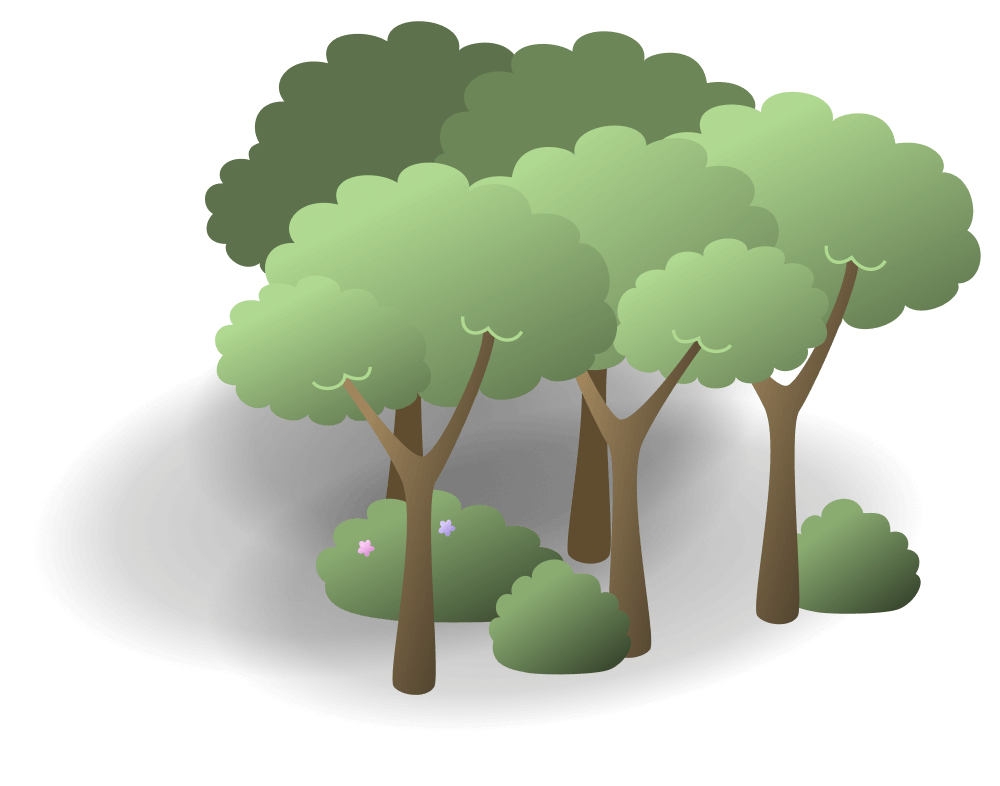
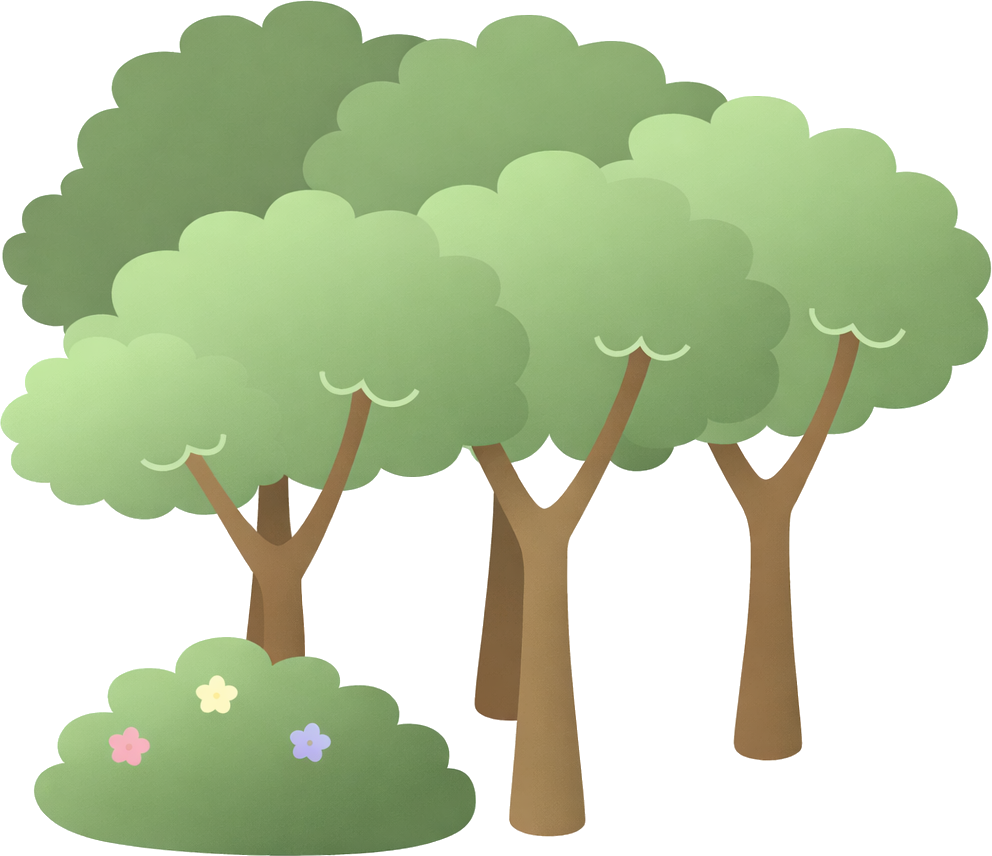
Replace graphics

diff --git a/app/shop.tsx b/app/shop.tsx
@@ -4,7 +4,14 @@ import ItemSlots, { ITEM_SIZE } from "@/src/components/store/ItemSlots";
 import Text from "@/src/components/Text";
 import ValueChangeIndicator from "@/src/components/ValueChangeIndicator";
 import { windowSize } from "@/src/constants/windowSize";
-import { useSaveData } from "@/src/lib/save-data";
+import {
+  BuildingType,
+  SaveData,
+  UpdateSaveData,
+  useSaveData,
+} from "@/src/lib/save-data";
+import { NavigationProp } from "@react-navigation/native";
+import { router } from "expo-router";
 import { useState } from "react";
 import {
   Alert,
@@ -19,21 +26,38 @@ const HEADER_WIDTH = windowSize.width * 1.2;
 const HEADER_HEIGHT = HEADER_WIDTH / 2;
 
 type ShopItem =
-  | {
-      id: "nonogram";
-    }
-  | {
-      id: "extra-health";
-    };
+  | { id: "nonogram" }
+  | { id: "extra-health" }
+  | { id: "building"; type: BuildingType };
 
 const SHOP_ITEMS: ({
   price: number;
   image: ImageSourcePropType;
+  isAvailable: (saveData: SaveData) => boolean;
+  onBuy: (opts: { saveData: SaveData; updateSaveData: UpdateSaveData }) => void;
 } & ShopItem)[] = [
   {
     id: "nonogram",
     price: 100,
     image: require("@assets/images/nonogram-icons/seed.png"),
+    isAvailable: () => true,
+    onBuy: ({ saveData, updateSaveData }) => {
+      updateSaveData("nonograms", (saveData.nonograms ?? 0) + 1);
+    },
+  },
+  {
+    id: "building",
+    type: "art-gallery",
+    price: 500,
+    image: require("@assets/images/buildings/art-gallery.png"),
+    isAvailable: (saveData) => !saveData.buildings["art-gallery"],
+    onBuy: ({ saveData, updateSaveData }) => {
+      updateSaveData("buildings", {
+        ...saveData.buildings,
+        "art-gallery": true,
+      });
+      router.back();
+    },
   },
 ];
 
@@ -45,11 +69,7 @@ export default function ShopScreen() {
     <View style={{ flex: 1 }}>
       <StatusBar barStyle={"dark-content"} />
       <ImageBackground
-        style={{
-          flex: 1,
-          alignItems: "center",
-          overflow: "hidden",
-        }}
+        style={{ flex: 1, alignItems: "center", overflow: "hidden" }}
         imageStyle={{ resizeMode: "cover" }}
         source={require("@assets/images/shop-background.png")}
       >
@@ -70,15 +90,19 @@ export default function ShopScreen() {
         </View>
         <View style={{ flex: 1, alignSelf: "stretch" }}>
           <ItemSlots
-            items={SHOP_ITEMS.map((i) => ({
-              image: i.image,
-              id: i.id,
-              extra: i.price,
-            }))}
+            items={SHOP_ITEMS.filter((i) => i.isAvailable(saveData)).map(
+              (i) => ({
+                image: i.image,
+                id: i.id,
+                extra: { price: i.price, onBuy: i.onBuy },
+              }),
+            )}
             onPress={(item) => {
-              if (saveData.coins >= item.extra) {
-                updateSaveData("coins", saveData.coins - item.extra);
-                updateSaveData("nonograms", (saveData.nonograms ?? 0) + 1);
+              const { price, onBuy } = item.extra;
+
+              if (saveData.coins >= price) {
+                updateSaveData("coins", saveData.coins - price);
+                onBuy({ saveData, updateSaveData });
                 setBoughtId(item.id);
               } else {
                 Alert.alert(
@@ -117,7 +141,7 @@ export default function ShopScreen() {
                       color: "#E4C8A7",
                     }}
                   >
-                    {item.extra}
+                    {item.extra.price}
                   </Text>
                   <Image
                     source={require("@assets/images/icons/coins.png")}

diff --git a/src/components/buildings/FarmLand.tsx b/src/components/buildings/FarmLand.tsx
@@ -31,9 +31,9 @@ const FARM_LANDS_HORIZONTAL = 3;
 const FARM_LANDS_VERTICAL = 2;
 
 const getHorizontalOffset = (pos: { x: number; y: number }) =>
-  pos.x * 0.62 * WIDTH + pos.y * 0.38 * WIDTH;
+  pos.x * 0.56 * WIDTH + pos.y * 0.42 * WIDTH;
 const getVerticalOffset = (pos: { x: number; y: number }) =>
-  pos.x * -0.204 * HEIGHT + pos.y * 0.275 * HEIGHT;
+  pos.x * -0.224 * HEIGHT + pos.y * 0.215 * HEIGHT;
 
 const getSeedImage = (seed: PlantedSeed | null) => {
   if (seed == null) {
@@ -63,8 +63,8 @@ const renderAllFarmLands = (props: BuildingProps, seed: PlantedSeed | null) => {
         source={require("@assets/images/buildings/farm-land.png")}
         width={WIDTH}
         aspectRatio={ASPECT_RATIO}
-        x={getHorizontalOffset(pos)}
-        y={getVerticalOffset(pos)}
+        x={getHorizontalOffset(pos) + WIDTH / 2}
+        y={getVerticalOffset(pos) + HEIGHT / 2}
       >
         {seedImage != null && (
           <View
@@ -97,7 +97,9 @@ const renderAllFarmLands = (props: BuildingProps, seed: PlantedSeed | null) => {
         .map((_, y) =>
           new Array(FARM_LANDS_HORIZONTAL)
             .fill(null)
-            .map((_, x) => renderSingleFarmLand({ x, y })),
+            .map((_, x) =>
+              renderSingleFarmLand({ x: FARM_LANDS_HORIZONTAL - 1 - x, y }),
+            ),
         )}
     </>
   );
@@ -122,12 +124,20 @@ export default function FarmLand(props: BuildingProps) {
     }
 
     Animated.loop(
-      Animated.timing(pulseAnimatedValue, {
-        toValue: 1,
-        duration: 1500,
-        useNativeDriver: true,
-        easing: Easing.linear,
-      }),
+      Animated.sequence([
+        Animated.timing(pulseAnimatedValue, {
+          toValue: 1,
+          duration: 1500,
+          useNativeDriver: true,
+          easing: Easing.linear,
+        }),
+        Animated.timing(pulseAnimatedValue, {
+          toValue: 0,
+          duration: 1000,
+          useNativeDriver: true,
+          easing: Easing.linear,
+        }),
+      ]),
     ).start();
   }, [plantedSeed, pulseAnimatedValue]);
 
@@ -164,15 +174,18 @@ export default function FarmLand(props: BuildingProps) {
     }
   };
 
+  const width = maxXOffset + WIDTH;
+  const height = maxYOffset + HEIGHT;
+
   return (
     <>
       <Animated.View
         style={{
           position: "absolute",
-          left: props.x,
-          top: props.y,
-          width: maxXOffset + WIDTH,
-          height: maxYOffset + HEIGHT,
+          left: props.x - width / 2,
+          top: props.y - height / 2,
+          width,
+          height,
           transform: [
             {
               scale: pulseAnimatedValue.interpolate({
@@ -184,17 +197,17 @@ export default function FarmLand(props: BuildingProps) {
         }}
       >
         {renderAllFarmLands({ ...props, x: 0, y: 0 }, plantedSeed)}
-        <Pressable style={StyleSheet.absoluteFillObject} onPress={onPress} />
+        <Pressable
+          style={[StyleSheet.absoluteFillObject, { top: -HEIGHT / 2 }]}
+          onPress={onPress}
+        />
       </Animated.View>
       <SeedOptionsModal
         visible={isSeedMenuOpen}
         onClose={() => setIsSeedMenuOpen(false)}
         onSelect={(seed) => {
           updateSaveData("plantedSeed", { type: seed, plantedAt: Date.now() });
-          updateSaveData("seeds", {
-            ...seeds,
-            [seed]: (seeds[seed] ?? 0) - 1,
-          });
+          updateSaveData("seeds", { ...seeds, [seed]: (seeds[seed] ?? 0) - 1 });
         }}
       />
     </>

diff --git a/app/index.tsx b/app/index.tsx
@@ -11,6 +11,7 @@ import FarmPlants from "@/src/components/buildings/FarmPlants";
 import FarmLand from "@/src/components/buildings/FarmLand";
 import FarmFence from "@/src/components/buildings/FarmFence";
 import BottomMenu from "@/src/components/interfaces/BottomMenu";
+import ArtGallery from "@/src/components/buildings/ArtGallery";
 
 export default function HomeScreen() {
   const [saveData, setSaveData] = useSaveData();
@@ -43,6 +44,7 @@ export default function HomeScreen() {
         return null;
     }
   })();
+
   return (
     <View style={{ flex: 1, backgroundColor: "blue" }}>
       <StatusBar barStyle={"dark-content"} />
@@ -50,11 +52,7 @@ export default function HomeScreen() {
         <Image
           style={[
             StyleSheet.absoluteFill,
-            {
-              width: "100%",
-              height: "100%",
-              resizeMode: "stretch",
-            },
+            { width: "100%", height: "100%", resizeMode: "stretch" },
           ]}
           source={require("@assets/images/farm-background.png")}
         />
@@ -68,33 +66,39 @@ export default function HomeScreen() {
         </View>
         <House
           isVisible={hasCompletedHouse}
-          x={dx(45)}
-          y={dy(20)}
+          x={dx(68)}
+          y={dy(32)}
           dropDelay={1000}
         />
         <HousePlants
           isVisible={hasCompletedPlants}
-          x={dx(62.8)}
-          y={dy(25.75)}
+          x={dx(88)}
+          y={dy(34)}
           dropDelay={1000}
         />
         <FarmPlants
           isVisible={hasCompletedPlants}
-          x={-dx(10) - dy(6)}
-          y={dy(54.5) - dx(25)}
+          x={dx(14)}
+          y={dy(62.5) - dx(25)}
           dropDelay={1250}
         />
         <FarmFence
           isVisible={hasCompletedFarm}
-          x={dx(4.65)}
-          y={dy(65) - dx(11)}
+          x={dx(11.65)}
+          y={dy(70) - dx(11)}
           dropDelay={1000}
         />
         <FarmLand
           isVisible={hasCompletedFarm}
-          x={dx(1) + dy(2.8)}
-          y={dy(66.5)}
+          x={dx(18) + dy(4)}
+          y={dy(70)}
           dropDelay={1250}
+        />
+        <ArtGallery
+          isVisible={!!saveData.buildings["art-gallery"]}
+          x={dx(88)}
+          y={dy(64)}
+          dropDelay={1000}
         />
         {introChapter ?? <BottomMenu />}
       </View>

diff --git a/src/lib/save-data.tsx b/src/lib/save-data.tsx
@@ -6,6 +6,8 @@ const SAVE_DATA_ASYNC_STORAGE_KEY = "nonogramFarm:saveData";
 export const INTRO_STEPS = ["sun", "house", "plants", "farm"] as const;
 export type IntroStep = (typeof INTRO_STEPS)[number];
 
+export type BuildingType = "art-gallery";
+
 export type SaveData = {
   hasCompletedNonogramTutorial: boolean;
   hasCompletedInventoryTutorial: boolean;
@@ -16,7 +18,13 @@ export type SaveData = {
   coins: number;
   plantedSeed: PlantedSeed | null;
   nonograms: number;
+  buildings: Partial<Record<BuildingType, boolean>>;
 };
+
+export type UpdateSaveData = <TKey extends keyof SaveData>(
+  key: TKey,
+  value: SaveData[TKey],
+) => void;
 
 const initialData: SaveData = {
   introNextStep: "sun",
@@ -28,14 +36,12 @@ const initialData: SaveData = {
   coins: 0,
   plantedSeed: null,
   nonograms: 0,
+  buildings: {},
 };
 
 type SaveDataContextValue = {
   saveData: SaveData | null;
-  updateSaveData: <TKey extends keyof SaveData>(
-    key: TKey,
-    value: SaveData[TKey],
-  ) => void;
+  updateSaveData: UpdateSaveData;
 };
 
 const SaveDataContext = createContext<SaveDataContextValue>({
@@ -97,7 +103,8 @@ export function SaveDataProvider({
         );
 
         if (existingSave) {
-          setSaveData(JSON.parse(existingSave));
+          console.log("existingSave", existingSave,  {...initialData, ...JSON.parse(existingSave) });
+          setSaveData({ ...initialData, ...JSON.parse(existingSave) });
         } else {
           setSaveData(initialData);
         }

diff --git a/src/components/buildings/Building.tsx b/src/components/buildings/Building.tsx
@@ -34,6 +34,7 @@ export default function Building({
   children,
 }: Props) {
   const animatedValue = useAnimatedValue(isVisible ? 1 : 0);
+  const height = width / aspectRatio;
 
   useEffect(() => {
     Animated.timing(animatedValue, {
@@ -48,8 +49,8 @@ export default function Building({
     <Animated.View
       style={{
         position,
-        left: x,
-        top: y,
+        left: x - width / 2,
+        top: y - height / 2,
         opacity: animatedValue.interpolate({
           inputRange: [0, 0.4, 1],
           outputRange: [0, 1, 1],
@@ -76,11 +77,7 @@ export default function Building({
         ],
       }}
     >
-      <Image
-        source={source}
-        style={{ width, height: width / aspectRatio }}
-        resizeMode="contain"
-      />
+      <Image source={source} style={{ width, height }} resizeMode="contain" />
       <View style={StyleSheet.absoluteFill}>{children}</View>
     </Animated.View>
   );

diff --git a/src/components/buildings/ArtGallery.tsx b/src/components/buildings/ArtGallery.tsx
@@ -1,12 +1,12 @@
 import { dx } from "@/src/constants/windowSize";
 import Building, { BuildingProps } from "./Building";
 
-export default function House(props: BuildingProps) {
+export default function ArtGallery(props: BuildingProps) {
   return (
     <Building
       {...props}
-      source={require("@assets/images/buildings/house.png")}
-      width={dx(48)}
+      source={require("@assets/images/buildings/art-gallery.png")}
+      width={dx(53)}
       aspectRatio={1.221}
     />
   );
